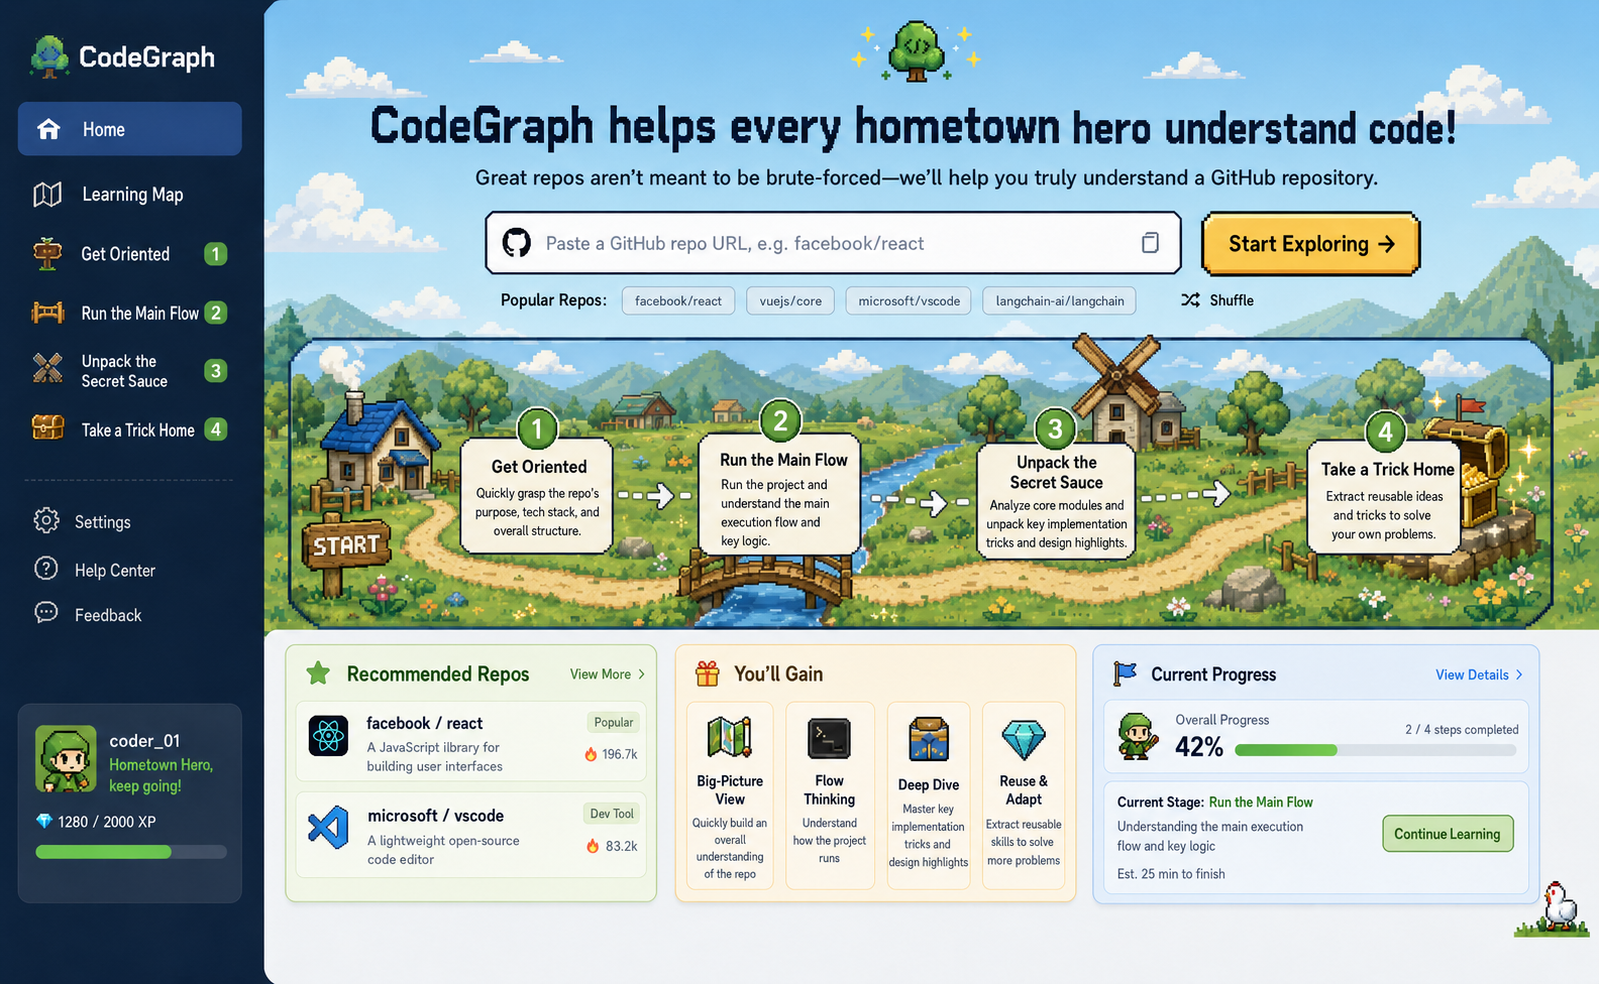
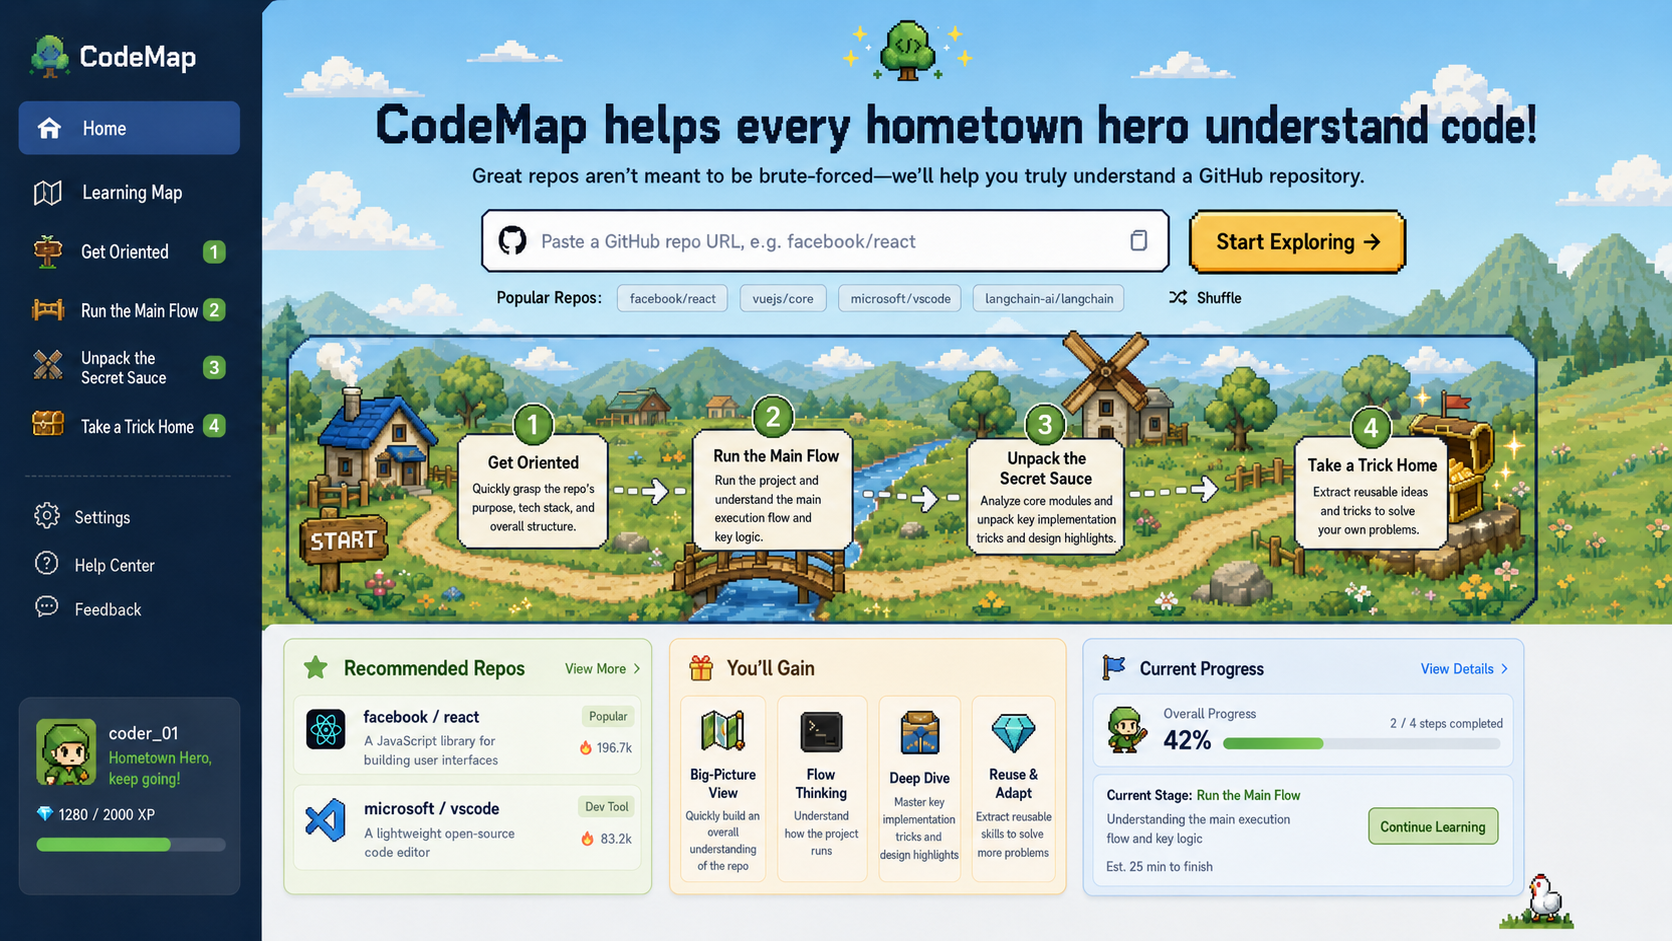
rebrand: Rename CodeGraph to CodeMap
Product name change to avoid conflict with existing popular project.

Changes:
- Replace all "CodeGraph" with "CodeMap" in README (EN/ZH)
- Update homepage hero images (docs/design/zh/home.png, docs/design/en/home.png)
- Update frontend UI text (Layout, Home, i18n dictionaries)
- Update HTML page titles
- Update API service references

Technical files unchanged:
- Package names (codegraph-frontend, gitgraph in pyproject.toml)
- Import paths and module structure
- Backend Python package structure (src/codegraph/)

Reason: CodeMap better reflects product essence ("learning map") and avoids naming collision.

diff --git a/frontend/src/services/api.ts b/frontend/src/services/api.ts
@@ -150,7 +150,7 @@ export const api = {
     ),
   // Repo-scoped code-symbol search (global search bar in GraphExplorer).
   searchRepoSymbols: (repoId: string, q: string) =>
-    request<CodeGraphNode[]>(
+    request<CodeMapNode[]>(
       `/graph/entities?repo_id=${encodeURIComponent(repoId)}&q=${encodeURIComponent(q)}`
     ),
 
@@ -222,7 +222,7 @@ export interface AnalyzeRepoResponse {
   mode: string // "async" | "background"
 }
 
-export interface CodeGraphNode {
+export interface CodeMapNode {
   id: string
   name: string
   kind: string | null // module | class | function | method
@@ -230,7 +230,7 @@ export interface CodeGraphNode {
   file_path: string | null
 }
 
-export interface CodeGraphEdge {
+export interface CodeMapEdge {
   source: string
   target: string
   type: string // CALLS | IMPORTS | INHERITS | DEFINES
@@ -238,8 +238,8 @@ export interface CodeGraphEdge {
 
 export interface RepoGraphResponse {
   repo_id: string
-  nodes: CodeGraphNode[]
-  edges: CodeGraphEdge[]
+  nodes: CodeMapNode[]
+  edges: CodeMapEdge[]
 }
 
 export interface RepoCommit {
@@ -351,7 +351,7 @@ export interface ReviewReport {
 export interface SymbolDetail {
   repo_id: string
   symbol: string
-  node: CodeGraphNode | null
+  node: CodeMapNode | null
   callers: { caller: string; file_path: string | null }[]
   callees: { callee: string; file_path: string | null }[]
   module: string | null

diff --git a/frontend/src/i18n/dict/home.ts b/frontend/src/i18n/dict/home.ts
@@ -1,7 +1,7 @@
 import type { Dict } from '../translations'
 
 export const home: Dict = {
-  'home.title.brand': { en: 'CodeGraph', zh: 'CodeGraph' },
+  'home.title.brand': { en: 'CodeMap', zh: 'CodeMap' },
   'home.title.cn': { en: 'Understand any codebase', zh: '让每个老乡' },
   'home.title.cn2': { en: 'like a local', zh: '看懂代码！' },
   'home.subtitle': {
@@ -16,8 +16,8 @@ export const home: Dict = {
   'home.startExplore': { en: 'Start Exploring', zh: '开始探索' },
   'home.hotRepos': { en: 'Popular repos:', zh: '热门仓库：' },
   'home.shuffle': { en: 'Shuffle', zh: '换一换' },
-  'home.heroAria': { en: 'CodeGraph home', zh: 'CodeGraph 首页' },
-  'home.titleAria': { en: 'CodeGraph helps everyone understand code!', zh: 'CodeGraph 让每个老乡看懂代码！' },
+  'home.heroAria': { en: 'CodeMap home', zh: 'CodeMap 首页' },
+  'home.titleAria': { en: 'CodeMap helps everyone understand code!', zh: 'CodeMap 让每个老乡看懂代码！' },
   'home.journeyAria': { en: 'Learning path map', zh: '学习路径图' },
   'home.lowerAria': { en: 'Learning info', zh: '学习信息' },
 

diff --git a/frontend/src/assets/pixel/kenney_pixel_platformer/Tiled/tileset-characters.tsx b/frontend/src/assets/pixel/kenney_pixel_platformer/Tiled/tileset-characters.tsx
@@ -1,0 +1,5 @@
+<?xml version="1.0" encoding="UTF-8"?>
+<tileset version="1.10" tiledversion="1.10.2" name="tileset-characters" tilewidth="24" tileheight="24" tilecount="27" columns="9">
+ <tileoffset x="-3" y="0"/>
+ <image source="../Tilemap/tilemap-characters_packed.png" width="216" height="72"/>
+</tileset>

diff --git a/frontend/src/assets/pixel/kenney_pixel_platformer/Tiled/tileset-tiles.tsx b/frontend/src/assets/pixel/kenney_pixel_platformer/Tiled/tileset-tiles.tsx
@@ -1,0 +1,4 @@
+<?xml version="1.0" encoding="UTF-8"?>
+<tileset version="1.4" tiledversion="1.4.3" name="tileset-tiles" tilewidth="18" tileheight="18" tilecount="180" columns="20">
+ <image source="../Tilemap/tilemap_packed.png" width="360" height="162"/>
+</tileset>

diff --git a/frontend/src/components/common/Layout.tsx b/frontend/src/components/common/Layout.tsx
@@ -53,7 +53,7 @@ export default function Layout({ children }: { children: React.ReactNode }) {
         <div className="cg-sidebar-inner">
           <div className="cg-sidebar-brand">
             <PixelLogo size={42} />
-            <Text className="cg-brand-name">CodeGraph</Text>
+            <Text className="cg-brand-name">CodeMap</Text>
           </div>
 
           <nav className="cg-main-nav" aria-label={t('nav.mainNavLabel')}>
@@ -99,7 +99,7 @@ export default function Layout({ children }: { children: React.ReactNode }) {
         <Group h="100%" px={16} justify="space-between">
           <Group gap={8}>
             <PixelLogo size={32} />
-            <Text fw={800}>CodeGraph</Text>
+            <Text fw={800}>CodeMap</Text>
           </Group>
           <Burger opened={opened} onClick={toggle} size="sm" color="#fff" />
         </Group>

diff --git a/frontend/src/pages/GraphExplorer.tsx b/frontend/src/pages/GraphExplorer.tsx
@@ -4,7 +4,7 @@ import * as d3 from 'd3'
 import { Search, GitBranch, AlertCircle, Layers, Share2, Sparkles, Cpu, LayoutGrid } from 'lucide-react'
 import {
   api,
-  type CodeGraphNode,
+  type CodeMapNode,
   type SymbolDetail,
   type ArchitectureSummary,
   type Persona,
@@ -95,7 +95,7 @@ function shortName(qname: string): string {
   return parts.length <= 2 ? qname : parts.slice(-2).join('.')
 }
 
-function toNode(n: CodeGraphNode): GraphNode {
+function toNode(n: CodeMapNode): GraphNode {
   return {
     id: n.id || n.name,
     name: n.name,

diff --git a/frontend/src/pages/Home.tsx b/frontend/src/pages/Home.tsx
@@ -132,7 +132,7 @@ export default function Home() {
               {lang === 'en' ? (
                 <>
                   <span className="cg-code-marks" aria-hidden="true">&lt;/&gt;</span>
-                  <span className="cg-brand-word">CodeGraph</span>
+                  <span className="cg-brand-word">CodeMap</span>
                   <span className="cg-code-marks" aria-hidden="true">&lt;/&gt;</span>
                   <span className="cg-title-en-line">Helping Every</span>
                   <span className="cg-title-en-line is-accent">Hometown Hero</span>
@@ -140,7 +140,7 @@ export default function Home() {
                 </>
               ) : (
                 <>
-                  <span className="cg-brand-word">CodeGraph</span>
+                  <span className="cg-brand-word">CodeMap</span>
                   <span className="cg-title-cn">{t('home.title.cn')}<span>{t('home.title.cn2')}</span></span>
                 </>
               )}

diff --git a/frontend/index.html b/frontend/index.html
@@ -4,7 +4,7 @@
     <meta charset="UTF-8" />
     <link rel="icon" type="image/svg+xml" href="/vite.svg" />
     <meta name="viewport" content="width=device-width, initial-scale=1.0" />
-    <title>CodeGraph - 读懂每一个优秀仓库的设计智慧</title>
+    <title>CodeMap - 读懂每一个优秀仓库的设计智慧</title>
     <link rel="preconnect" href="https://fonts.googleapis.com" />
     <link rel="preconnect" href="https://fonts.gstatic.com" crossorigin />
     <link href="https://fonts.googleapis.com/css2?family=Inter:wght@400;500;600;700&family=JetBrains+Mono:wght@400;500&family=Press+Start+2P&display=swap" rel="stylesheet" />

diff --git a/frontend/src/pages/AgentTrace.tsx b/frontend/src/pages/AgentTrace.tsx
@@ -224,7 +224,7 @@ export default function AgentTrace() {
               <Table.Tr>
                 <Table.Th>Dimension</Table.Th>
                 <Table.Th>Traditional RAG</Table.Th>
-                <Table.Th>CodeGraph Multi-Agent</Table.Th>
+                <Table.Th>CodeMap Multi-Agent</Table.Th>
               </Table.Tr>
             </Table.Thead>
             <Table.Tbody>

diff --git a/README.md b/README.md
@@ -1,4 +1,4 @@
-# CodeGraph
+# CodeMap
 
 <div align="center">
   <img src="./docs/assets/en/hero-banner.png" alt="CodeGraph - Navigate any codebase with AI agents" width="100%">
@@ -161,7 +161,7 @@ Paste repo context → Ask questions → Get answers
 ```
 **Problem**: No systematic analysis. Answers are reactive, not structured. No staged progression from "what is this" to "how to use this."
 
-### CodeGraph's approach: Multi-Agent Orchestration
+### CodeMap's approach: Multi-Agent Orchestration
 ```
 Overview → MainFlow → Showcase → Takeaway
 (Each agent uses tools + prior context)

diff --git a/README.zh.md b/README.zh.md
@@ -1,4 +1,4 @@
-# CodeGraph
+# CodeMap
 
 <div align="center">
   <img src="./docs/assets/github标题背景图.png" alt="CodeGraph - 用 AI Agent 带你读懂任何代码仓库" width="100%">
@@ -39,7 +39,7 @@
 
 ---
 
-## CodeGraph 是什么
+## CodeMap 是什么
 
 CodeGraph 不是又一个"代码问答机器人"，而是一个**多 Agent 协作编排系统**。
 